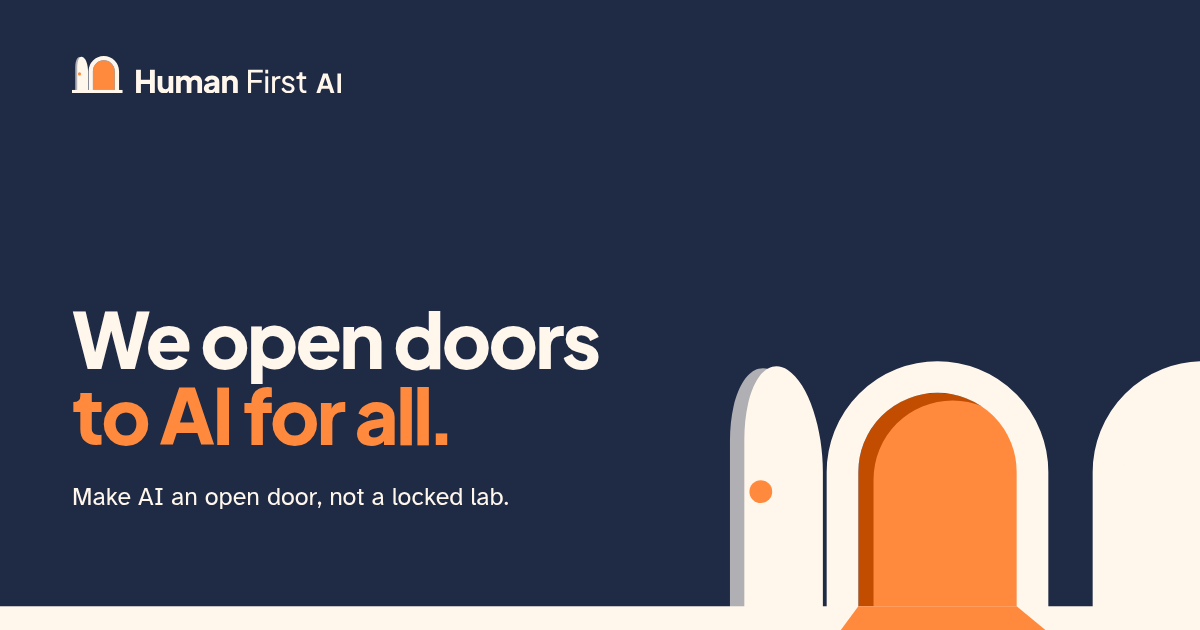
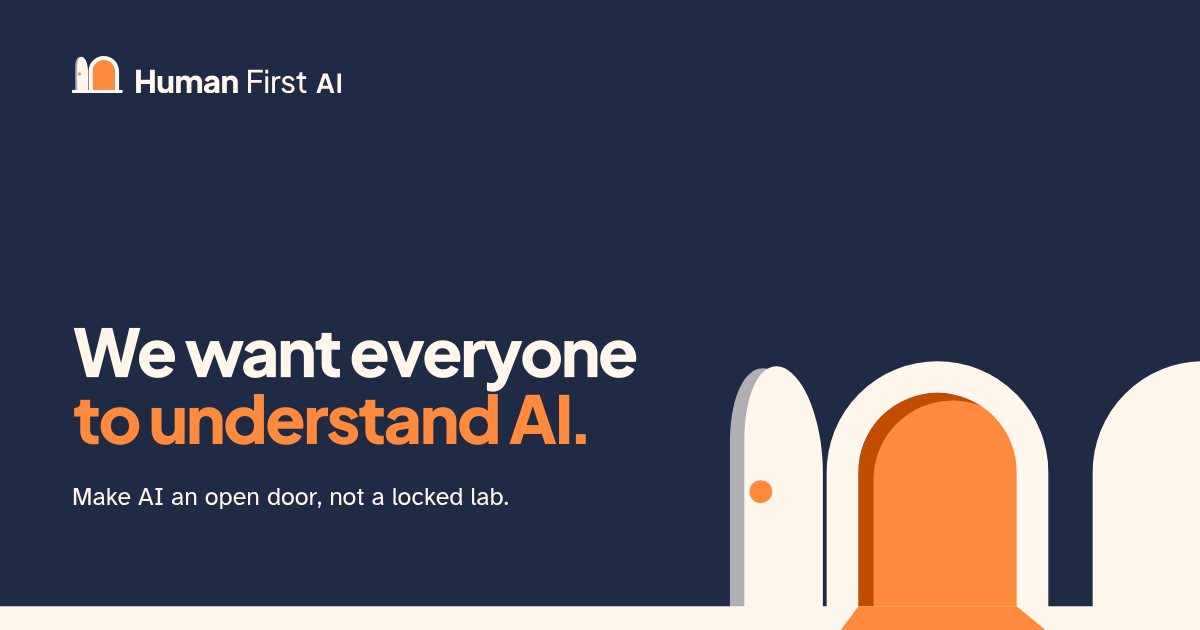
Share image: the new headline
The picture shown when the site is shared now says "We want everyone to
understand AI." like the home page, and its description says the same in
all three languages.

Changed region(s): [[0.0617, 0.4825, 0.555, 0.7238]]

diff --git a/src/i18n/ui.ts b/src/i18n/ui.ts
@@ -49,7 +49,7 @@ const en = {
   titleDefault: 'Human First AI · Make AI an open door, not a locked lab',
   description:
     'Human First AI is a volunteer group, starting in Barcelona, that wants AI to be an open door, not a locked lab. Panels, workshops, events and more are in the works. Sign up for email updates.',
-  shareAlt: 'Human First AI. We open doors to AI for all. An open orange doorway on a dark blue wall.',
+  shareAlt: 'Human First AI. We want everyone to understand AI. Make AI an open door, not a locked lab. An open orange doorway on a dark blue wall.',
   skip: 'Skip to content',
   homeLabel: 'Human First AI, home',
   menu: 'Menu',
@@ -176,7 +176,7 @@ const es: Words = {
   titleDefault: 'Human First AI · Que la IA sea una puerta abierta, no un laboratorio cerrado',
   description:
     'Human First AI es un grupo de personas voluntarias que empieza en Barcelona y quiere que la IA sea una puerta abierta, no un laboratorio cerrado. Estamos preparando mesas redondas, talleres, eventos y más. Suscríbete para recibir avisos por correo.',
-  shareAlt: 'Human First AI. Abrimos puertas a la IA para todo el mundo. Una puerta naranja abierta en una pared azul oscuro.',
+  shareAlt: 'Human First AI. Queremos que todo el mundo entienda la IA. Que la IA sea una puerta abierta, no un laboratorio cerrado. Una puerta naranja abierta en una pared azul oscuro.',
   skip: 'Saltar al contenido',
   homeLabel: 'Human First AI, inicio',
   menu: 'Menú',
@@ -300,7 +300,7 @@ const ca: Words = {
   titleDefault: 'Human First AI · Que la IA sigui una porta oberta, no un laboratori tancat',
   description:
     "Human First AI és un grup de persones voluntàries que comença a Barcelona i vol que la IA sigui una porta oberta, no un laboratori tancat. Estem preparant taules rodones, tallers, esdeveniments i més. Subscriu-te per rebre avisos al correu.",
-  shareAlt: 'Human First AI. Obrim portes a la IA per a tothom. Una porta taronja oberta en una paret blau fosc.',
+  shareAlt: 'Human First AI. Volem que tothom entengui la IA. Que la IA sigui una porta oberta, no un laboratori tancat. Una porta taronja oberta en una paret blau fosc.',
   skip: 'Salta al contingut',
   homeLabel: 'Human First AI, inici',
   menu: 'Menú',

diff --git a/VOICE.md b/VOICE.md
@@ -118,9 +118,9 @@ the site.
   stays as the home page `<title>` and as the large statement in the home page's "why" section,
   above the "Our mission" link. The door is
   also the site's visual device. Do not echo it in words anywhere else: no "pick a door", "this
-  door does not go anywhere", "we open doors". (Known leftover: the share image `public/og.png`
-  and its description `shareAlt` in `ui.ts` still carry "We open doors to AI for all". Redraw
-  the image and change the description together.)
+  door does not go anywhere", "we open doors". The share image `public/og.png` repeats the
+  home headline. If the headline changes, redraw the image and change its description
+  (`shareAlt` in `ui.ts`) at the same time.
 
 ### Sentences
 
